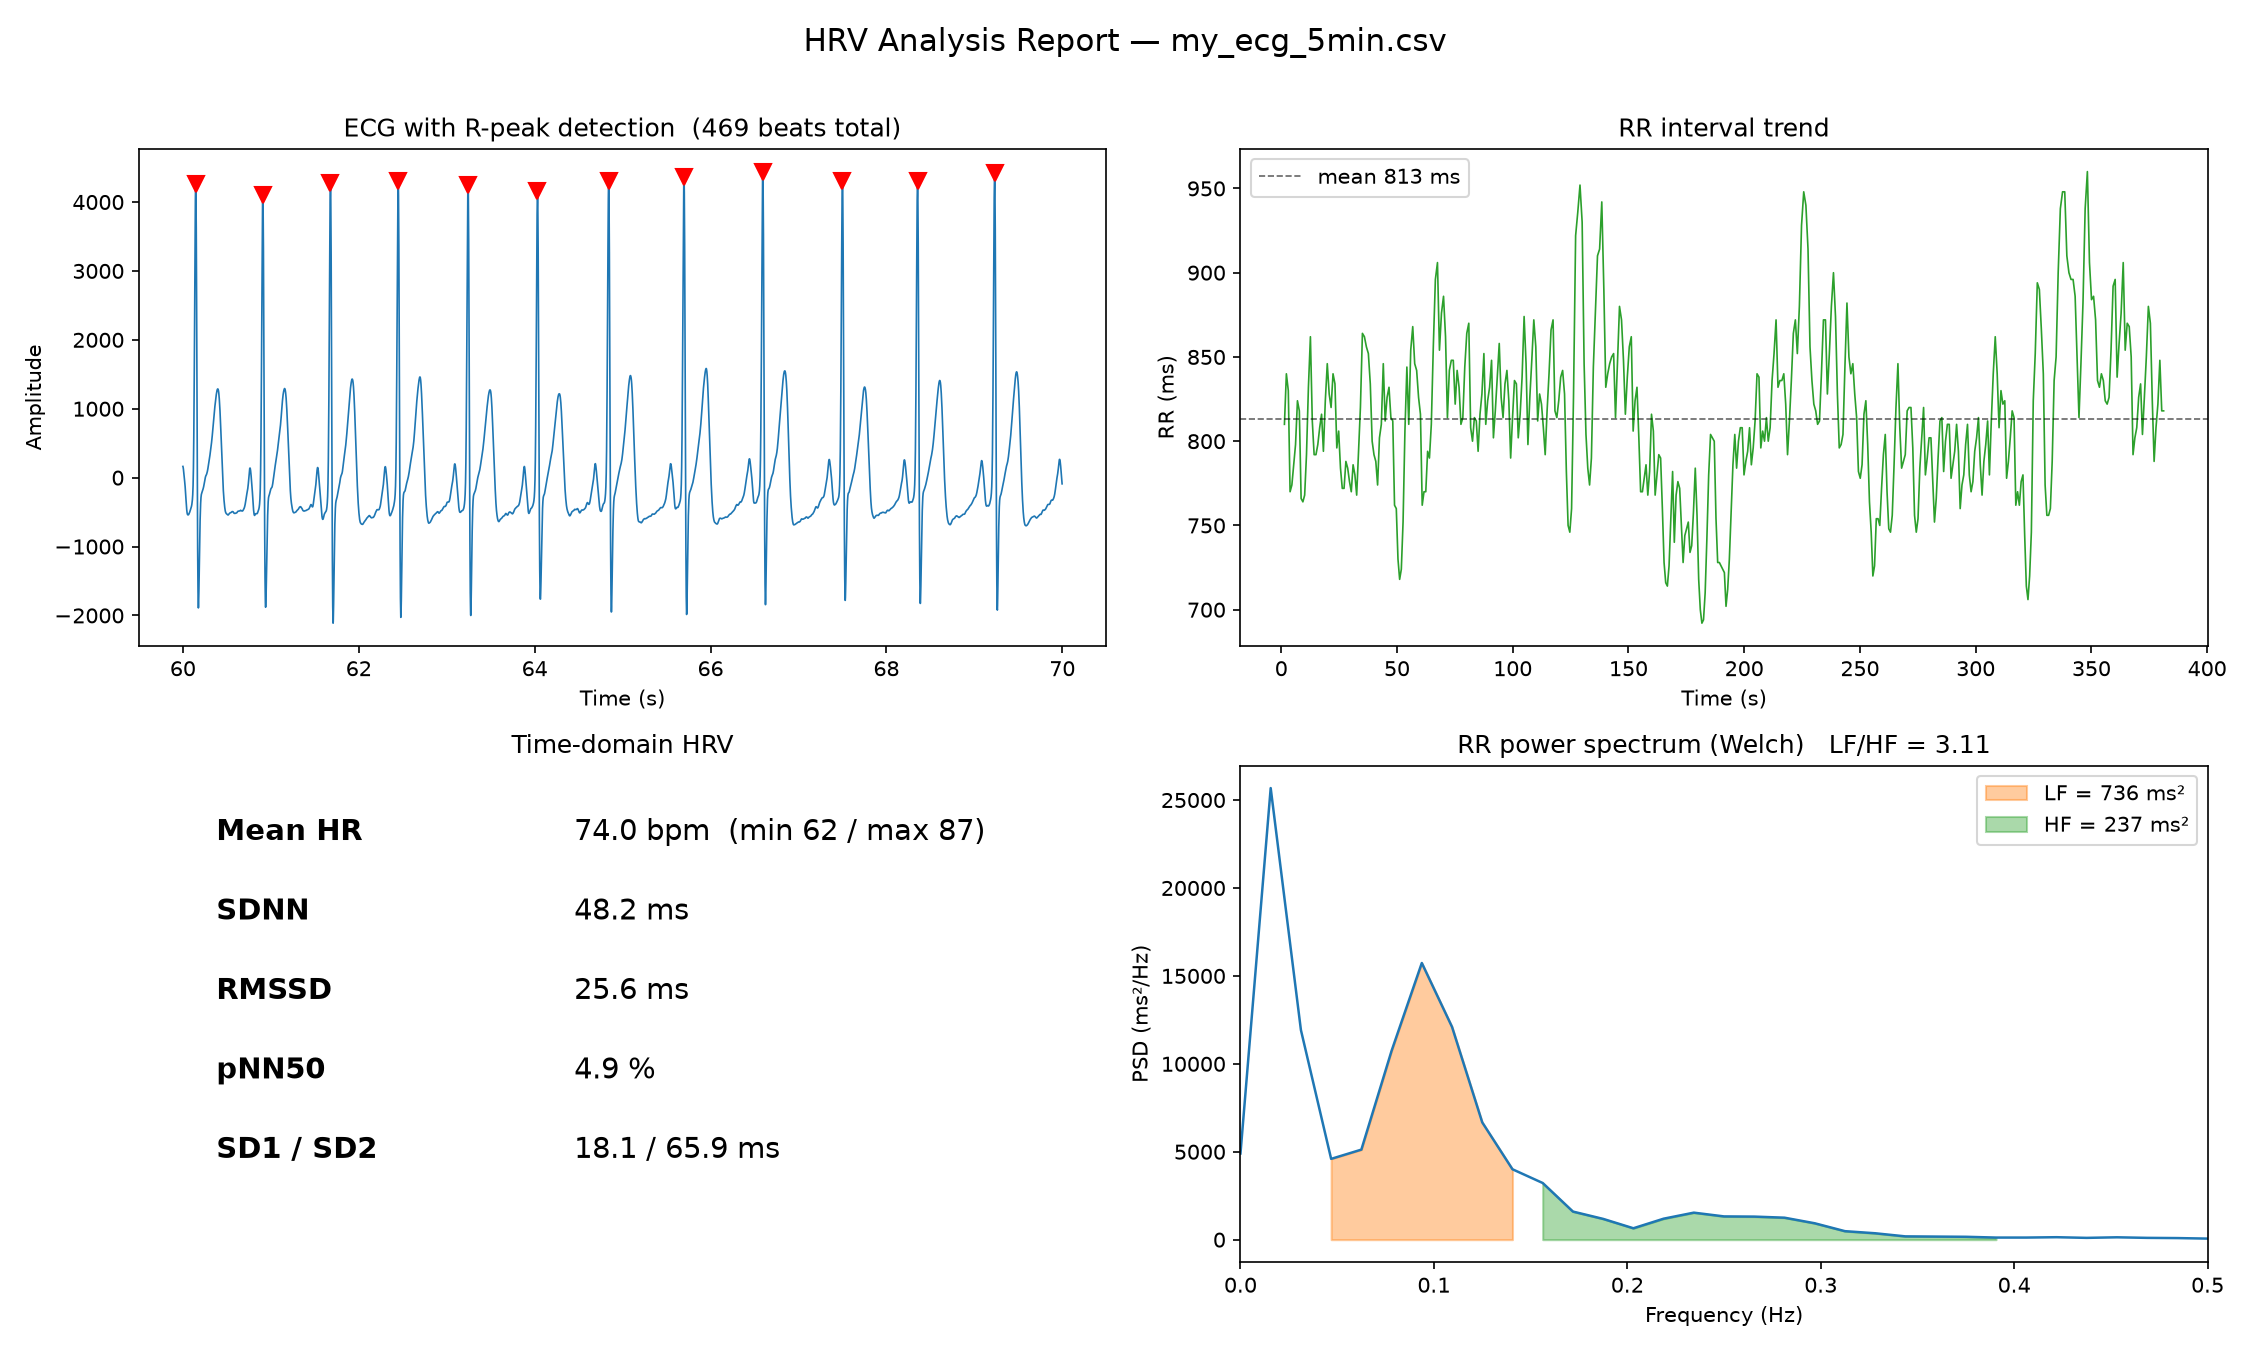
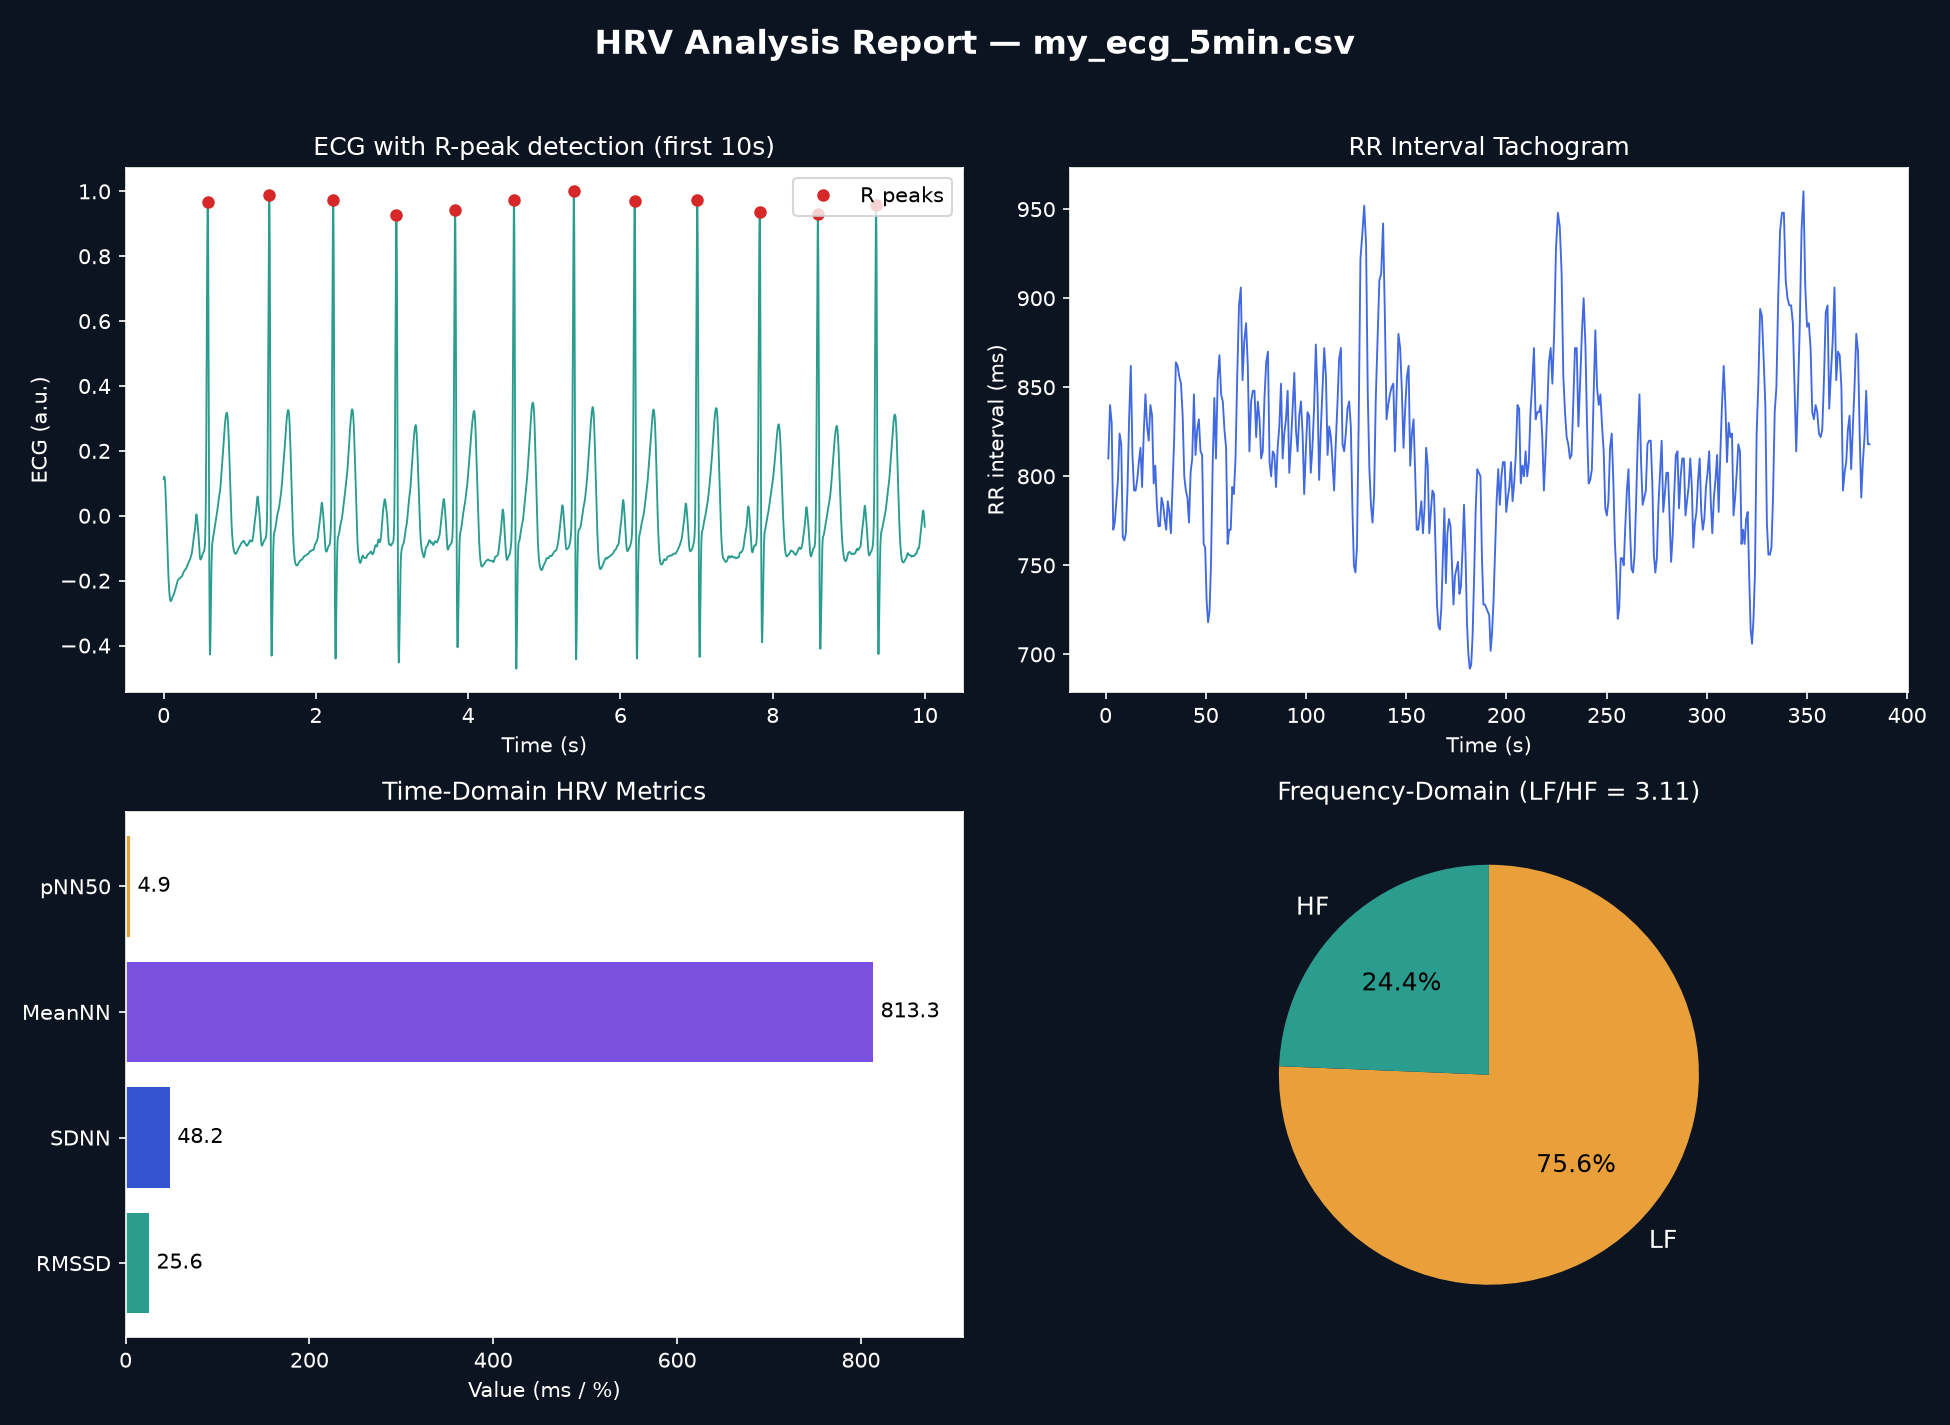
Restyle HRV report to 4-panel dark layout with bar chart and LF/HF pie

diff --git a/hrv_analysis.py b/hrv_analysis.py
@@ -60,61 +60,71 @@ rr_even = interp(t_even)
 freq, psd = welch(rr_even - rr_even.mean(), fs=4.0, nperseg=min(256, len(rr_even)))
 
 # --- 3. 4-panel HRV report ---------------------------------------------
-fig, axes = plt.subplots(2, 2, figsize=(15, 9))
+DARK = "#0d1421"
+fig, axes = plt.subplots(2, 2, figsize=(13, 9.5))
+fig.patch.set_facecolor(DARK)
 
-# (a) ECG with R peaks (10-s window so beats are visible)
+def dark_style(ax):
+    ax.set_facecolor("white")
+    ax.title.set_color("white")
+    ax.xaxis.label.set_color("white")
+    ax.yaxis.label.set_color("white")
+    ax.tick_params(colors="white")
+    for spine in ax.spines.values():
+        spine.set_color("white")
+
+# (a) ECG with R peaks — first 10 s
 ax = axes[0, 0]
 t = np.arange(len(ecg)) / FS
-seg = (t >= 60) & (t < 70)
-ax.plot(t[seg], clean[seg], lw=0.8)
-pk_seg = rpeaks[(rpeaks >= 60 * FS) & (rpeaks < 70 * FS)]
-ax.plot(pk_seg / FS, clean[pk_seg], "rv", ms=8)
-ax.set_title(f"ECG with R-peak detection  ({len(rpeaks)} beats total)")
+seg = t < 10
+scale = np.abs(clean[seg]).max()          # display in arbitrary units
+ax.plot(t[seg], clean[seg] / scale, lw=0.9, color="#2a9d8f")
+pk_seg = rpeaks[rpeaks < 10 * FS]
+ax.plot(pk_seg / FS, clean[pk_seg] / scale, "o", ms=5, color="#d62828",
+        label="R peaks")
+ax.set_title("ECG with R-peak detection (first 10s)")
 ax.set_xlabel("Time (s)")
-ax.set_ylabel("Amplitude")
+ax.set_ylabel("ECG (a.u.)")
+ax.legend(loc="upper right")
+dark_style(ax)
 
-# (b) RR interval trend
+# (b) RR interval tachogram
 ax = axes[0, 1]
-ax.plot(rr_t, rr_ms, lw=0.8, color="tab:green")
-ax.axhline(rr_ms.mean(), color="k", ls="--", lw=0.8, alpha=0.6,
-           label=f"mean {rr_ms.mean():.0f} ms")
-ax.set_title("RR interval trend")
+ax.plot(rr_t, rr_ms, lw=0.9, color="royalblue")
+ax.set_title("RR Interval Tachogram")
 ax.set_xlabel("Time (s)")
-ax.set_ylabel("RR (ms)")
-ax.legend()
+ax.set_ylabel("RR interval (ms)")
+dark_style(ax)
 
-# (c) Time-domain metrics panel
+# (c) Time-domain metrics bar chart
 ax = axes[1, 0]
-ax.axis("off")
-ax.set_title("Time-domain HRV")
-lines = [
-    ("Mean HR", f"{hr_mean:.1f} bpm  (min {hr_min:.0f} / max {hr_max:.0f})"),
-    ("SDNN", f"{sdnn:.1f} ms"),
-    ("RMSSD", f"{rmssd:.1f} ms"),
-    ("pNN50", f"{pnn50:.1f} %"),
-    ("SD1 / SD2", f"{sd1:.1f} / {sd2:.1f} ms"),
-]
-for i, (k, v) in enumerate(lines):
-    ax.text(0.08, 0.85 - i * 0.16, k, fontsize=14, fontweight="bold",
-            transform=ax.transAxes)
-    ax.text(0.45, 0.85 - i * 0.16, v, fontsize=14, transform=ax.transAxes)
+names = ["RMSSD", "SDNN", "MeanNN", "pNN50"]      # bottom -> top
+vals = [rmssd, sdnn, rr_ms.mean(), pnn50]
+colors = ["#2a9d8f", "#3454d1", "#7b52e0", "#e9a03b"]
+bars = ax.barh(names, vals, color=colors)
+for b, v in zip(bars, vals):
+    ax.text(v + 8, b.get_y() + b.get_height() / 2, f"{v:.1f}",
+            va="center", fontsize=10)
+ax.set_xlim(0, max(vals) * 1.12)
+ax.set_title("Time-Domain HRV Metrics")
+ax.set_xlabel("Value (ms / %)")
+dark_style(ax)
 
-# (d) Frequency-domain PSD with LF/HF bands
+# (d) Frequency-domain pie: LF vs HF share of (LF+HF) power
 ax = axes[1, 1]
-ax.plot(freq, psd, lw=1.2, color="tab:blue")
-ax.fill_between(freq, psd, where=(freq >= 0.04) & (freq < 0.15),
-                alpha=0.4, color="tab:orange", label=f"LF = {lf:.0f} ms²")
-ax.fill_between(freq, psd, where=(freq >= 0.15) & (freq < 0.40),
-                alpha=0.4, color="tab:green", label=f"HF = {hf:.0f} ms²")
-ax.set_xlim(0, 0.5)
-ax.set_title(f"RR power spectrum (Welch)   LF/HF = {lfhf:.2f}")
-ax.set_xlabel("Frequency (Hz)")
-ax.set_ylabel("PSD (ms²/Hz)")
-ax.legend()
+ax.set_facecolor(DARK)
+wedges, labels_txt, pct_txt = ax.pie(
+    [lf, hf], labels=["LF", "HF"], colors=["#e9a03b", "#2a9d8f"],
+    autopct="%.1f%%", startangle=90, counterclock=False,
+    textprops={"fontsize": 12})
+for lt in labels_txt:
+    lt.set_color("white")
+ax.set_title(f"Frequency-Domain (LF/HF = {lfhf:.2f})", color="white")
 
-fig.suptitle("HRV Analysis Report — my_ecg_5min.csv", fontsize=15)
-fig.tight_layout(rect=[0, 0, 1, 0.97])
-fig.savefig("hrv_report.png", dpi=150)
+fig.suptitle("HRV Analysis Report — my_ecg_5min.csv", fontsize=16,
+             fontweight="bold", color="white")
+fig.tight_layout(rect=[0, 0, 1, 0.96])
+fig.savefig("hrv_report.png", dpi=150, facecolor=DARK)
 plt.close(fig)
 
 # --- 4. Poincaré plot with ellipse and SD1/SD2 arrows -------------------
